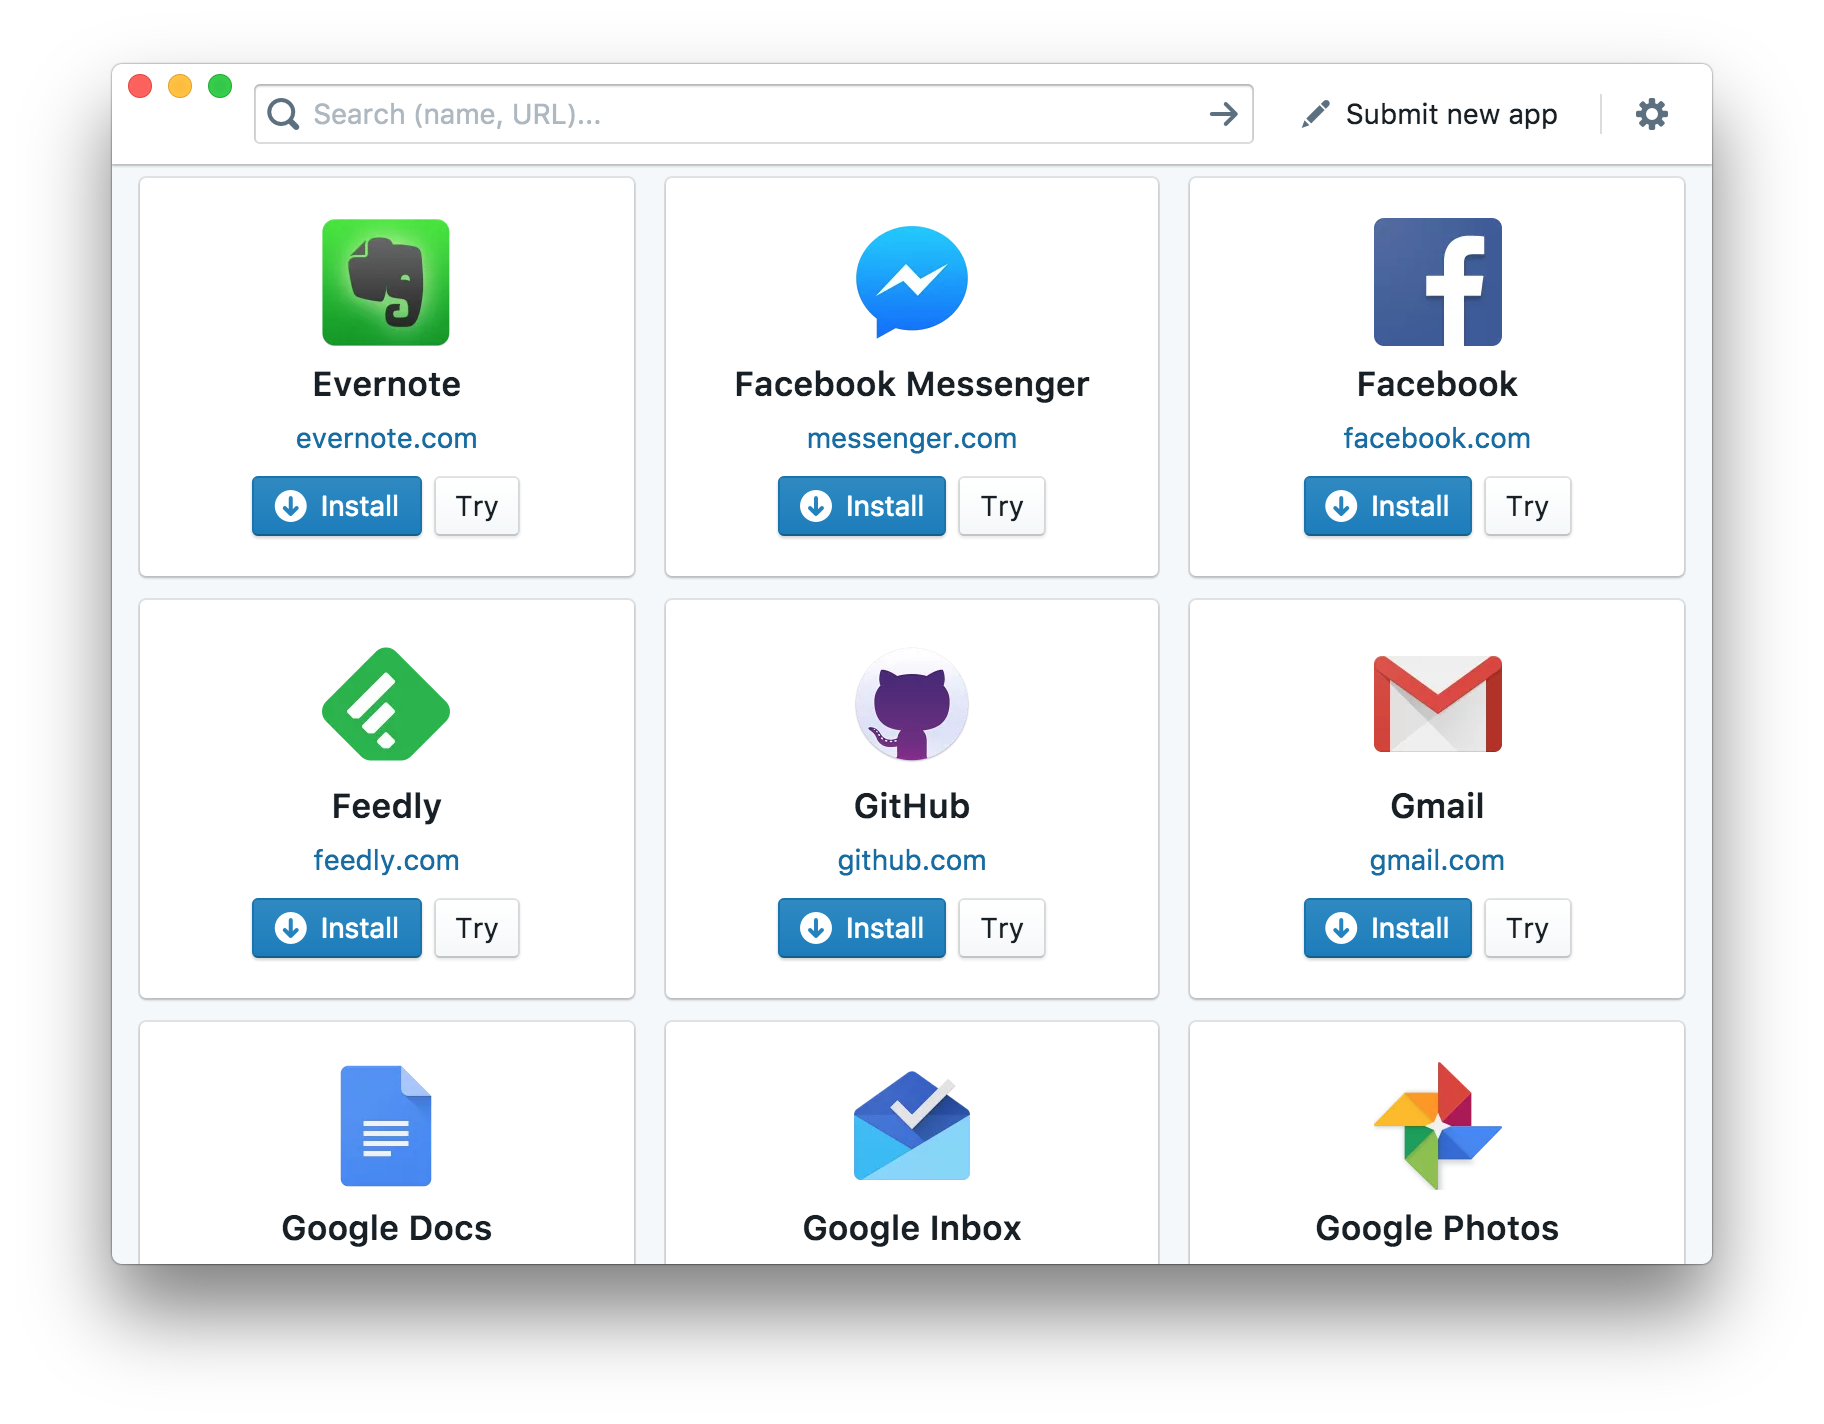
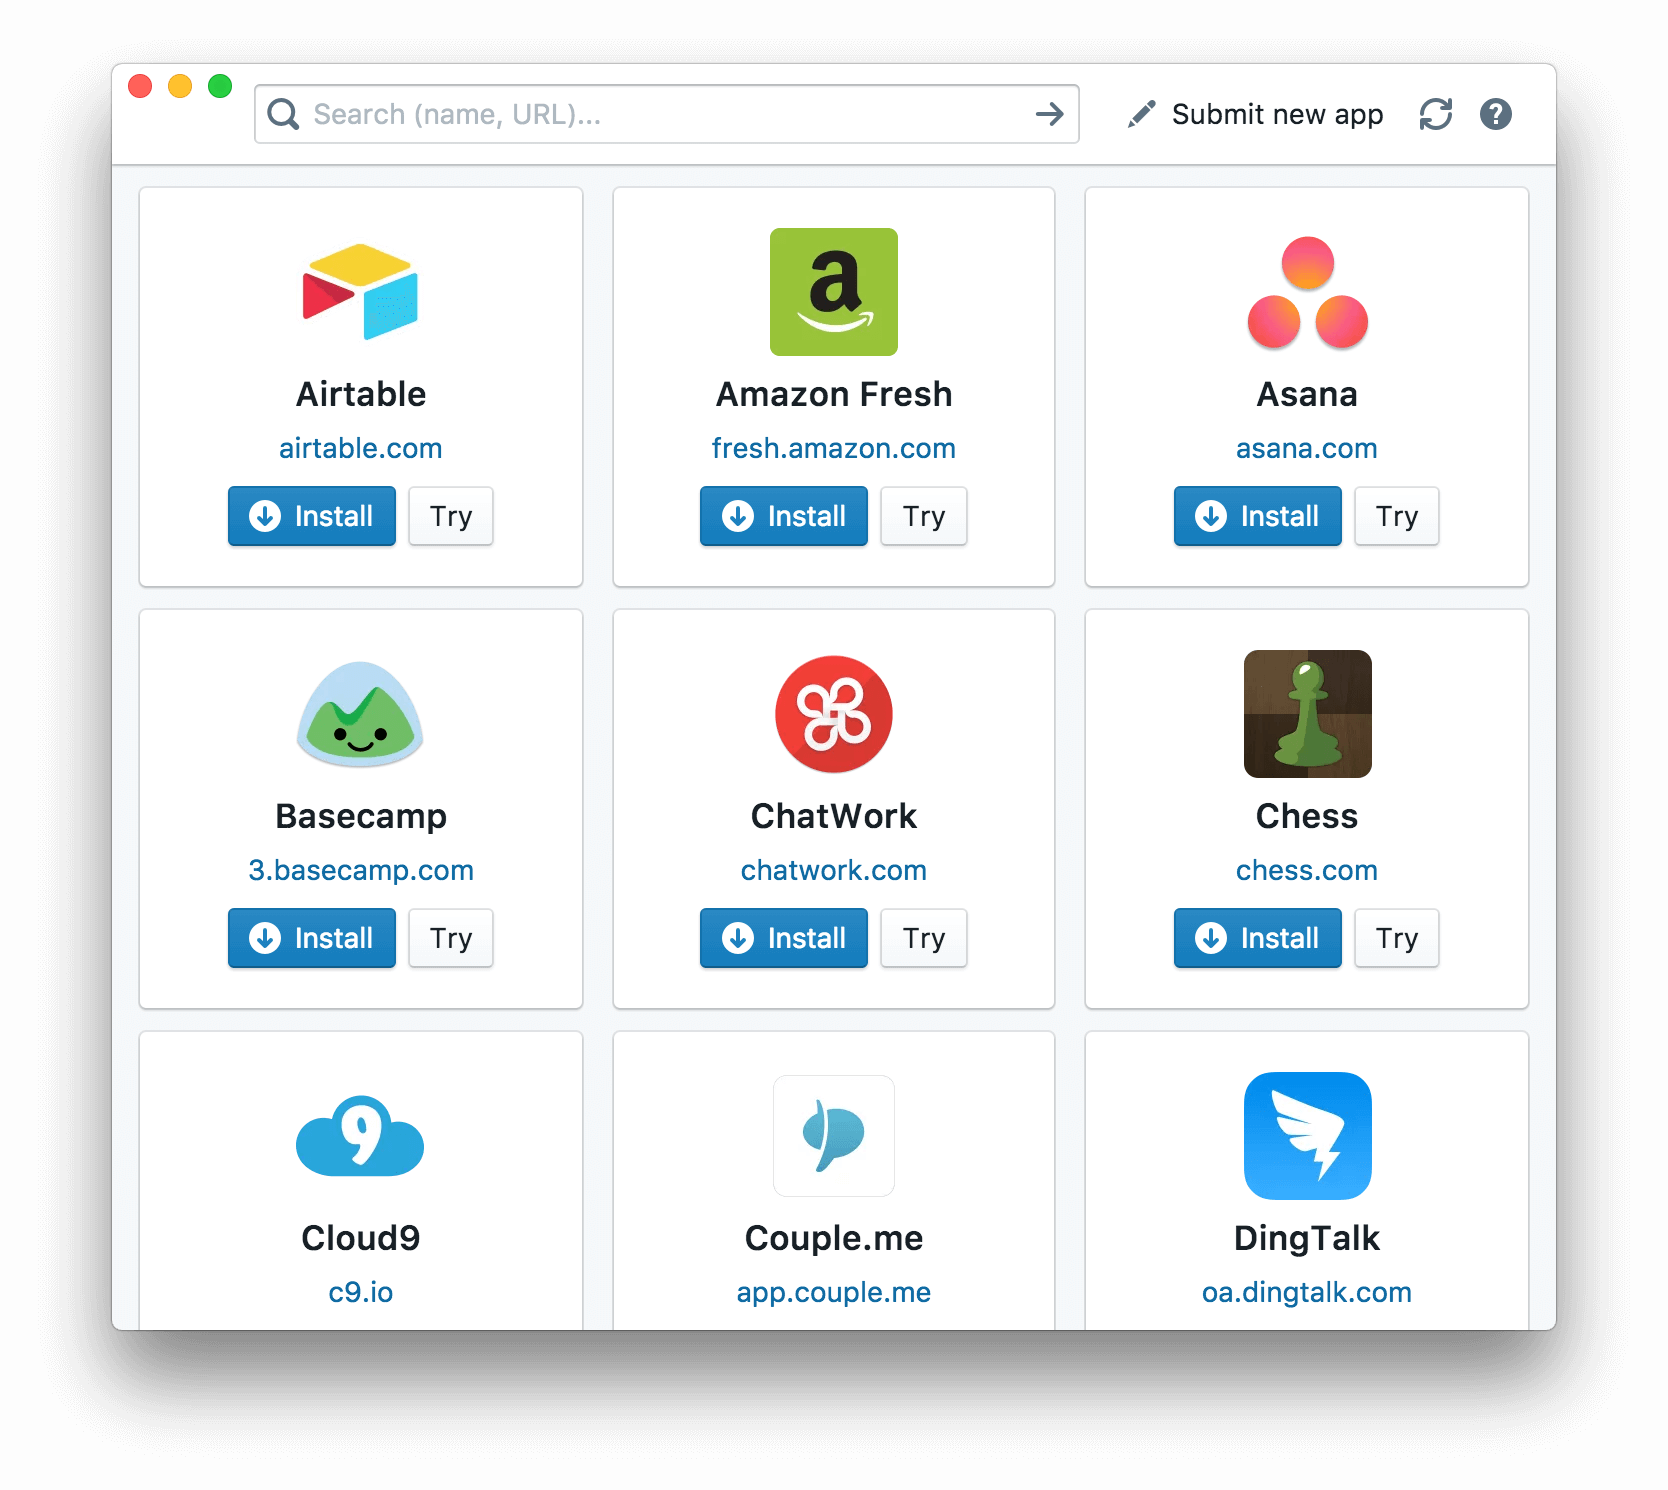
Link to support page

diff --git a/app/createMenu.js b/app/createMenu.js
@@ -351,9 +351,9 @@ function createMenu({
             },
           },
           {
-            label: 'Report an Issue',
+            label: 'Support',
             click: () => {
-              shell.openExternal('https://github.com/webCatalog/desktop/issues');
+              shell.openExternal('https://getwebcatalog.com/support');
             },
           },
         ],

diff --git a/src/components/Nav.js b/src/components/Nav.js
@@ -67,6 +67,10 @@ const Nav = ({
         className="pt-button pt-minimal pt-icon-refresh"
         onClick={() => requestRefresh()}
       />
+      <button
+        className="pt-button pt-minimal pt-icon-help"
+        onClick={() => shell.openExternal('https://getwebcatalog.com/support')}
+      />
     </div>
   </nav>
 );
